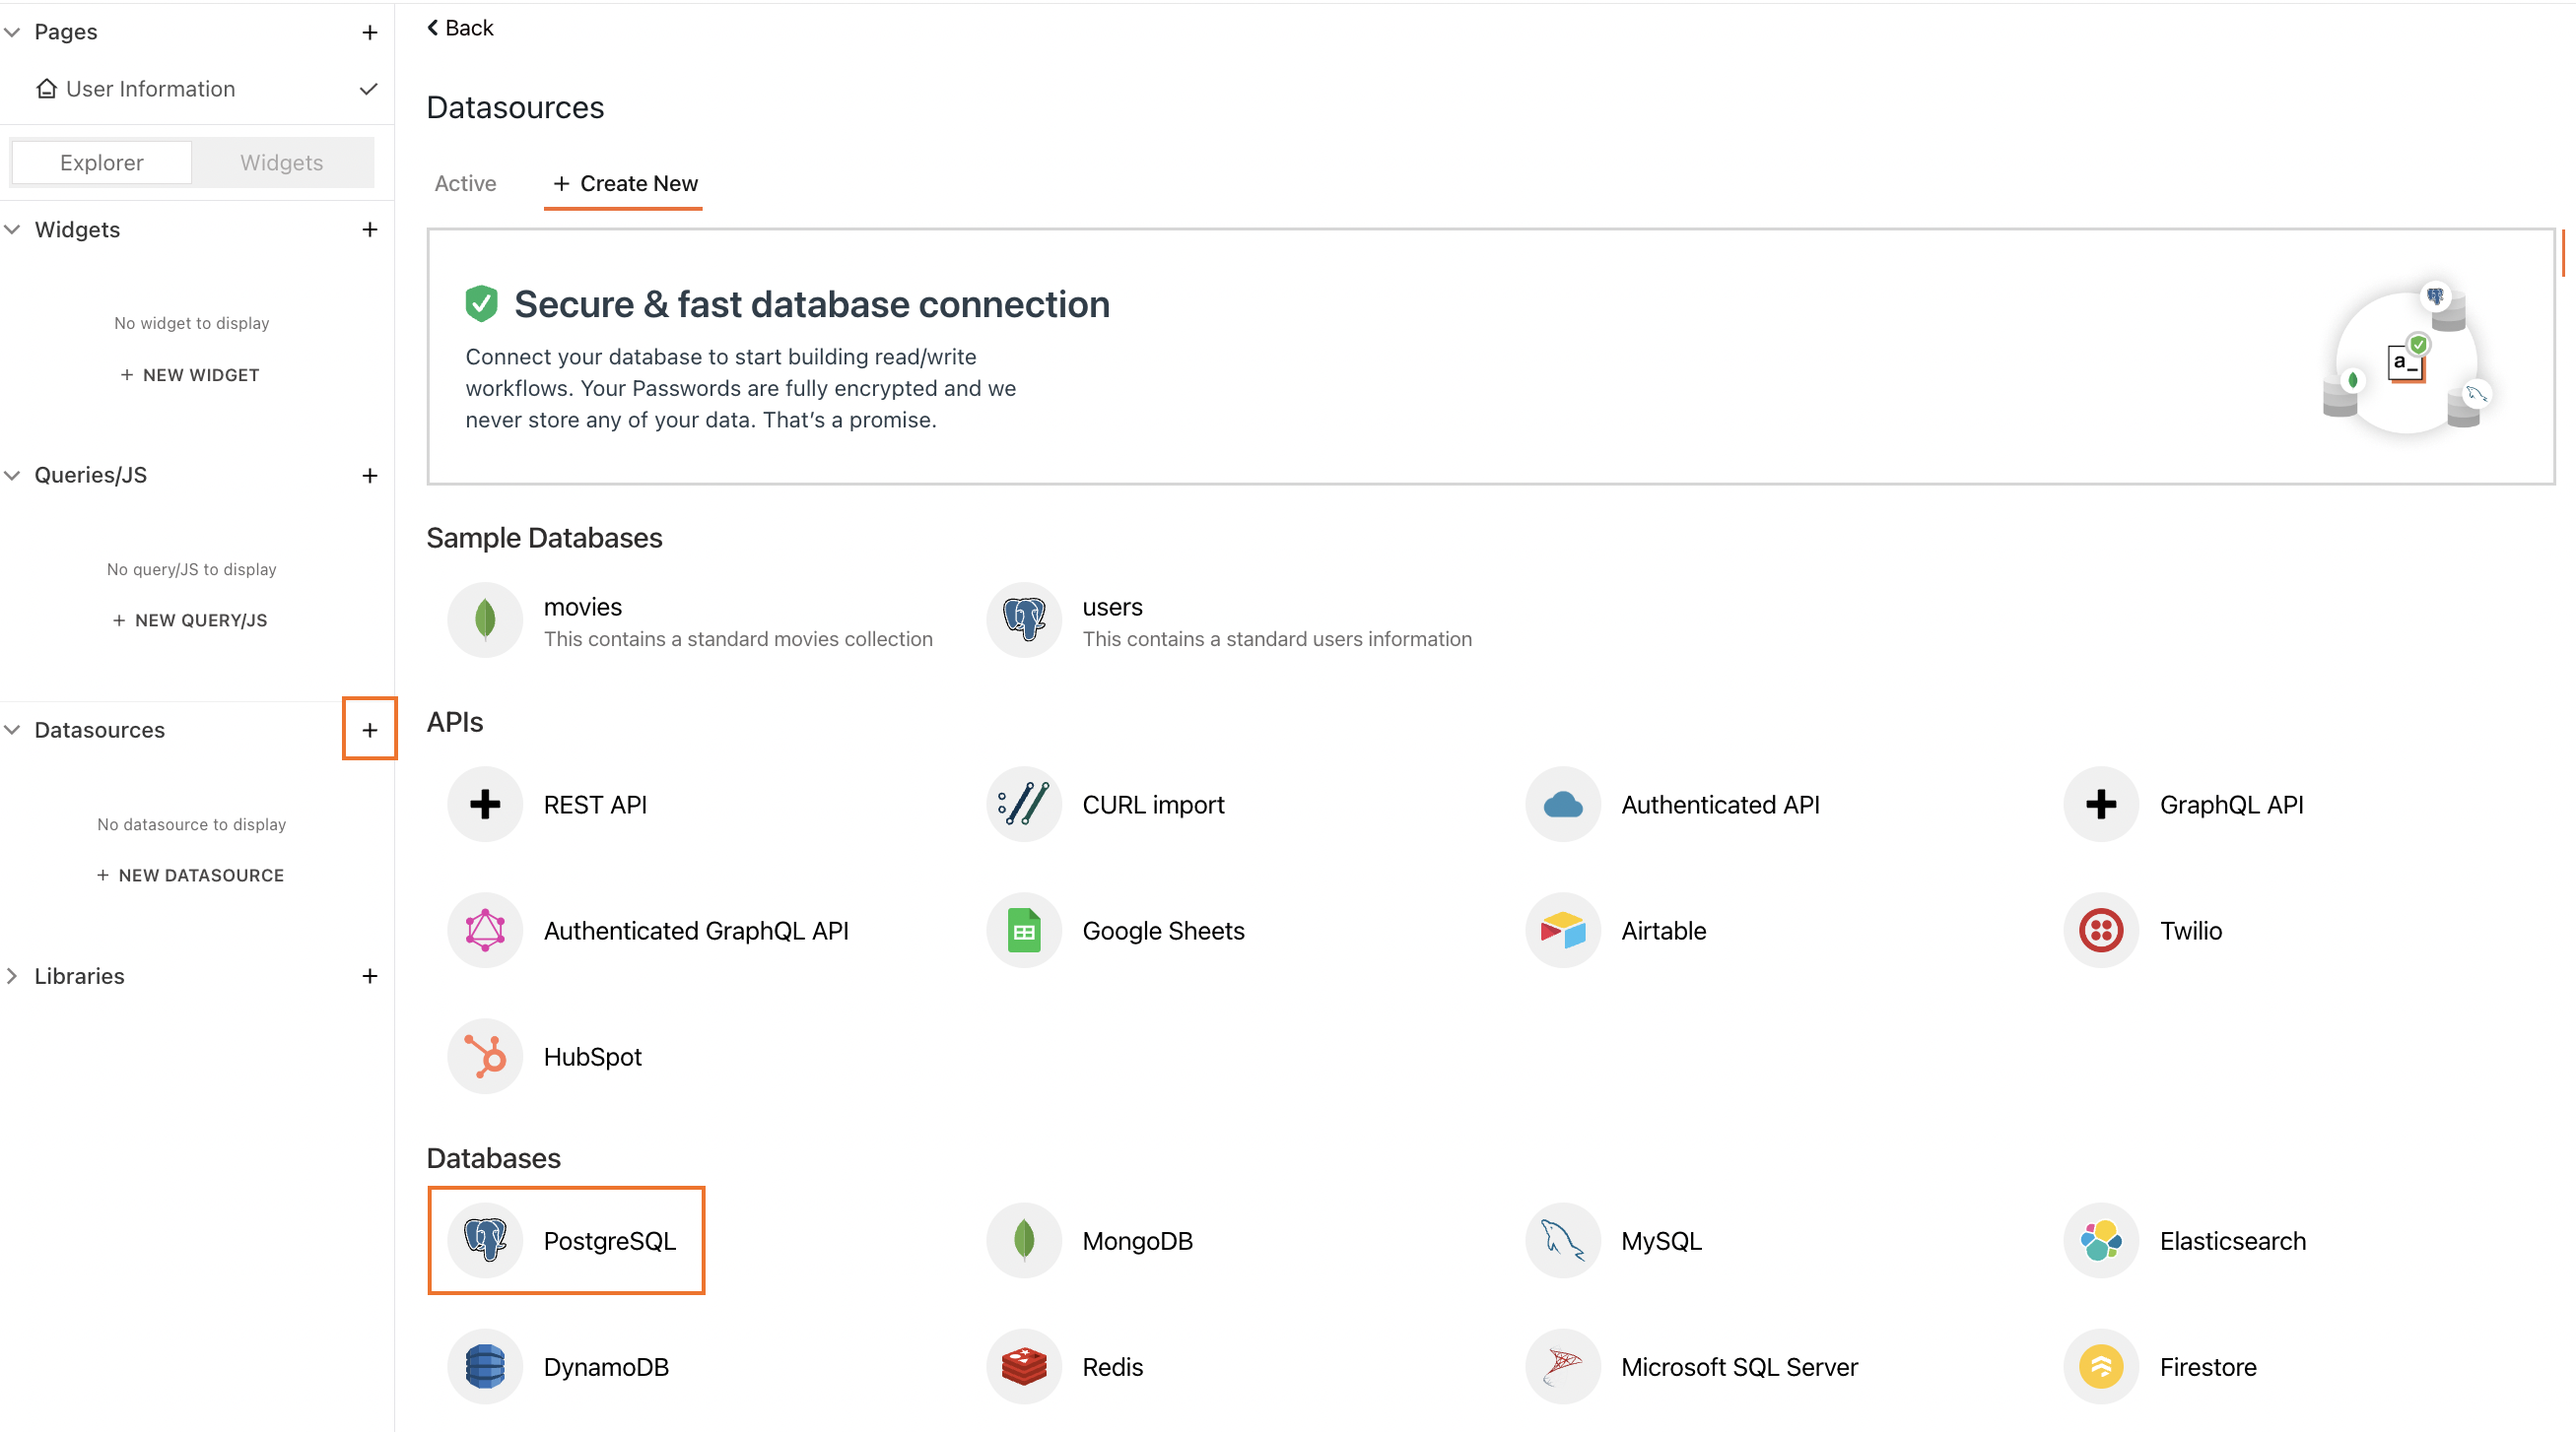
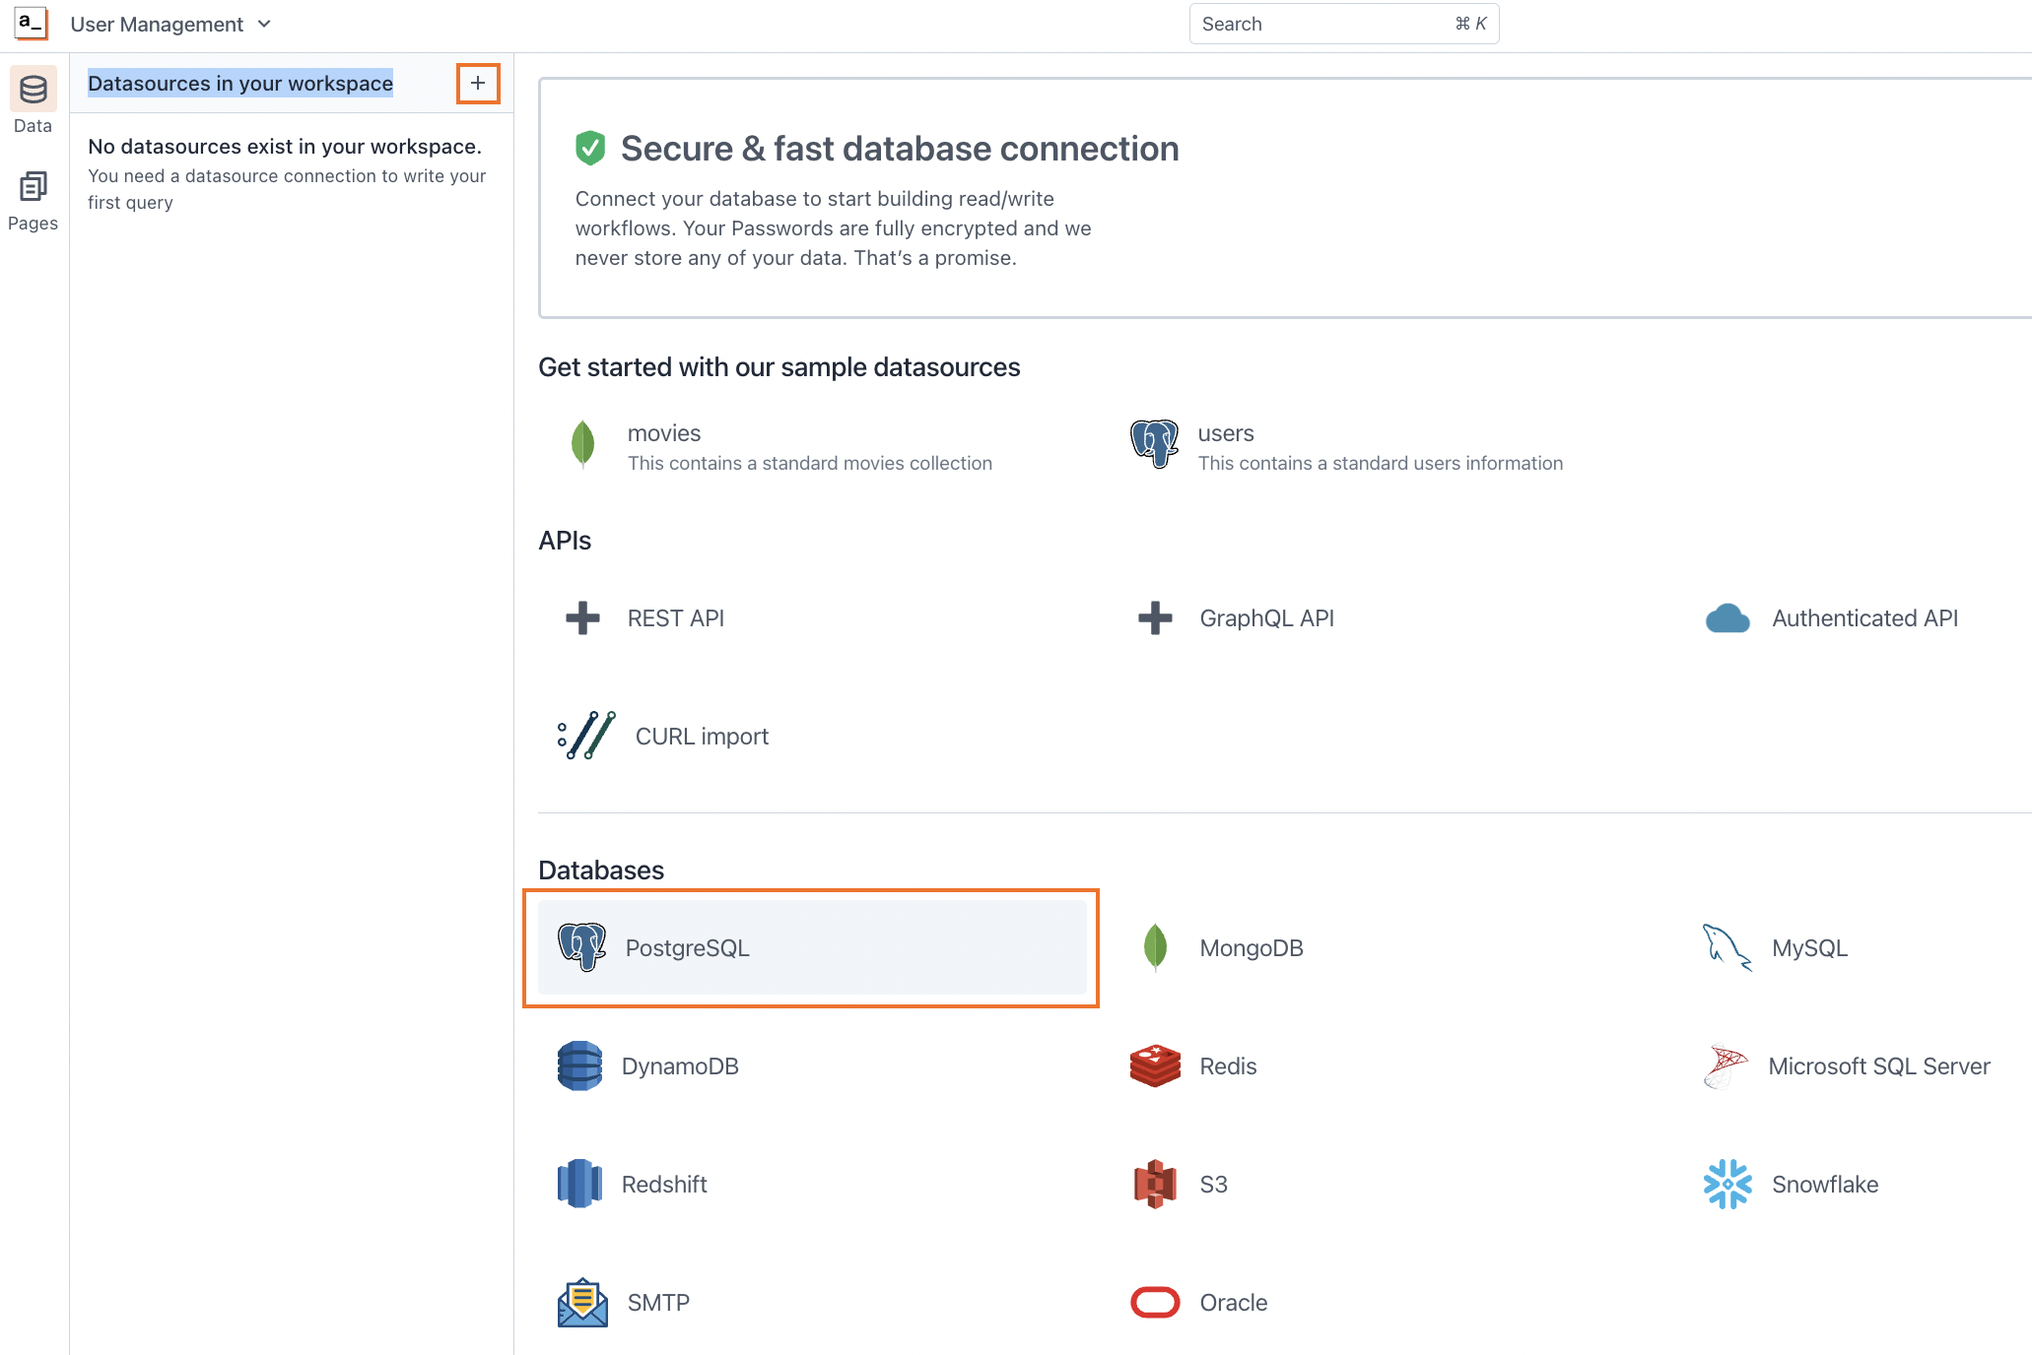
fix: Update tutorials for new sidebar

diff --git a/website/docs/getting-started/tutorials/the-basics/write-js-code.md b/website/docs/getting-started/tutorials/the-basics/write-js-code.md
@@ -29,9 +29,11 @@ This tutorial take you through the process of writing JavaScript code in Appsmit
 
 5. Go back to the canvas by clicking the page name or the **Widget** tab.
 
-6. Select the `usersTable` Table. Click on the **Style** tab.
+6. Select the `usersTable` Table. 
 
-7. In the Cell Background property, click the **JS** button and paste the following code snippet to call the function to return the color code based on the gender of the user in the current table row.
+7. Click the gear icon ⚙ next to the **gender** column. Click on the **Style** tab.
+
+7. In the **Cell Background** property, click the **JS** button and paste the following code snippet to call the function to return the color code based on the gender of the user in the current table row.
 
   ```
   {{JSObject1.getBackground(currentRow.gender)}}
@@ -48,9 +50,9 @@ Appsmith provides global objects and functions within its framework for building
   ```javascript
   Hello {{appsmith.user.name || appsmith.user.email}}
   ```
-  Here you are using the `appsmith` global object to extract information of the currently logged in user and append it to the text `Hello`. For more information, see [appsmith](/reference/appsmith-framework/context-object).
+  Here you are using the `appsmith` global object to extract information of the currently logged in user and append it to the text `Hello`. For more information, refer to [appsmith](/reference/appsmith-framework/context-object) global object.
 
-2. Let's explore a few global functions. Click the **Update** button in the Form widget. In the **onClick** event, click the **JS** button to the right. Modify the code as shown below to show an alert message when the update query runs.
+2. Let's explore a few other global functions. Click the **Update** button in the Form widget. In the **onClick** event, click the **JS** button to the right. Modify the code as shown below to show an alert message when the update query runs.
 
   ```javascript
   {{
@@ -62,16 +64,16 @@ Appsmith provides global objects and functions within its framework for building
   ```
   Test by editing any record and click the **Update** button to see the alert message pop up on the top of the screen.
 
-3. You can also navigate from one page to another. Create a new blank page by clicking on the **+** next to **Pages** on the Entity Explorer to the left of the screen.
+3. You can also navigate from one page to another. Create a new blank page by clicking on the **+** next to **Pages** on the Entity Explorer to the left of the screen. Rename the page to `Account Details`.
 
-4. Go back to the User Information page. Drop a button widget anywhere on the canvas. Change its **Label** property to `Next Page`.
+4. Go back to the **User Information** page. Drop a button widget anywhere on the canvas. Change its **Label** property to `Next Page`.
 
 5. In the **onClick** property, click the **JS** button. 
 
 6. Between the curly braces `{{}}` enter the following code snippet
 
   ```javascript
-  navigateTo('Page2')
+  navigateTo('Account Details')
   ```
 
 7. Click the **Next Page** button to test if it redirects you to the next page. 

diff --git a/website/docs/getting-started/tutorials/the-basics/connect-query-display-data.md b/website/docs/getting-started/tutorials/the-basics/connect-query-display-data.md
@@ -10,9 +10,9 @@ This tutorial takes you through the process of connecting a datasource and query
 
 ## Connect datasource
 
-1. On the *Entity Explorer* to the left of the screen, go to the **Explorer** tab.
+1. In your application, go to the sidebar and click the **Data** button.
 
-2. Click the **+** icon next to **Datasources** to add a new datasource.
+2. Click the **+** icon next to **Datasources in your workspace** to add a new datasource.
 
 3. Select **PostgreSQL** under the **Databases** section. This opens the page where you can configure the fields to connect to your PostgreSQL database. 
 
@@ -21,7 +21,7 @@ This tutorial takes you through the process of connecting a datasource and query
   <figcaption align = "center"><i>Connect to PostgreSQL database</i></figcaption>
 </figure>
 
-4. Click the pencil icon next to the default database name on the top left and rename the database to `usersTutorialDB`.
+4. Rename the default database name from **Untitled datasource 1** to `usersTutorialDB`. You may have to click the pencil icon next to the database name if it is not already selected. 
 
 5. Enter the following details in the connection parameter fields:<br/>
   **Host Address**: `mockdb.internal.appsmith.com` <br/>
@@ -43,7 +43,7 @@ This tutorial takes you through the process of connecting a datasource and query
   <figcaption align = "center"><i>Create a new query on the datasource</i></figcaption>
 </figure>
 
-2. Click the pencil icon to rename the query from **Query1** to `getUsers`.
+2. Rename the query from **Query1** to `getUsers`. You may have to click the pencil icon if it is not already selected.
 
 3. For this tutorial, modify the query as shown below to fetch the records in the ascdending order of the `id` field.
 

diff --git a/website/docs/getting-started/tutorials/the-basics/work-with-data-in-ui.md b/website/docs/getting-started/tutorials/the-basics/work-with-data-in-ui.md
@@ -11,7 +11,7 @@ This tutorial take you through the process of viewing and editing individual rec
 ## View details for each record
 
 1. From the **Widgets** tab, drag and drop a **Form** widget on the canvas to the right of the Table widget. 
-2. Select the title of the Form. On the property pane to the right of the screen, in the **Text** property box, change the title from **Form** to `User Details`.
+2. Select the title **Form**. On the property pane to the right of the screen, in the **Text** property box, change the title from **Form** to `User Details`.
 3. Now add widgets on the Form to view user details. For the user's name, drop an **Input** widget inside the Form. 
     * On the property pane to the right, click on the default name **Input1** and rename it to `nameInput`. 
     * In the **Text** property box, enter `Name`. 
@@ -21,7 +21,7 @@ This tutorial take you through the process of viewing and editing individual rec
     * Select **Email** from the list of options in the **Data Type** property.
     * In the **Text** property box, enter `Email`.
     * In the **Default Value** property box, type `{{usersTable.selectedRow.email}}`.
-5. You also need to view the user's date of birth. Drop a Datepicker widget inside the Form. 
+5. You also need to view the user's date of birth. Drop a **Datepicker** widget inside the Form. 
     * Rename the widget to `dobInput`.
     * In the **Text** property box, enter `DOB`.
     * Click the **JS** button next to the **Default Date** property to connect the Datepicker widget to the user's date of birth on the Table. 
